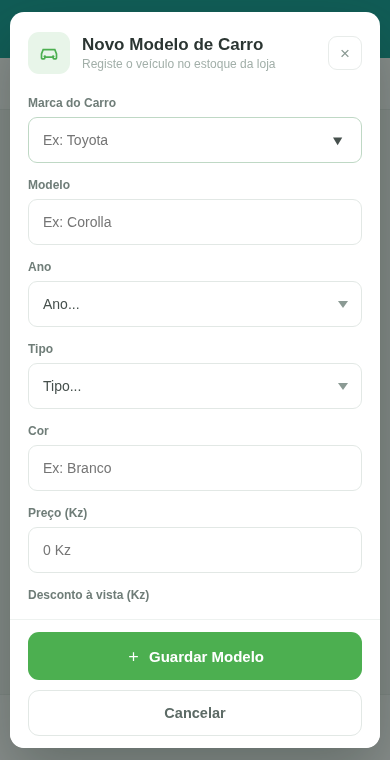
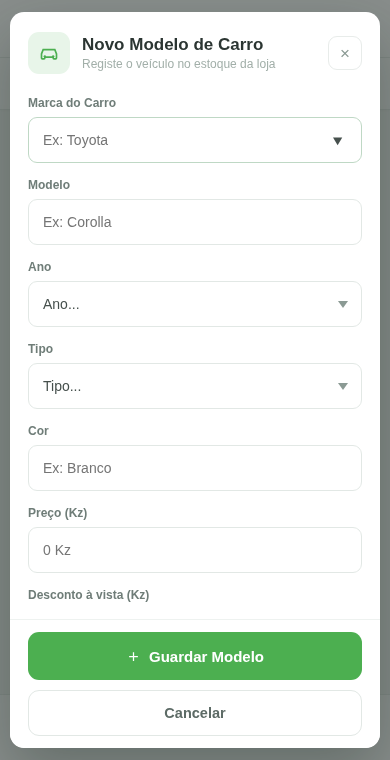
Appbar com fundo branco
- Marca (Modelo) passa de teal para branco, com logótipo em teal e texto escuro
- Divisória fina entre marca e appbar no desktop (250px / 76px no tablet)
- Sombra suave na appbar de conteúdo para separar do fundo
- Contraste do texto da marca: 12,67:1

Changed region(s): [[0.0, 0.0, 1.0, 0.0908]]

diff --git a/index.html b/index.html
@@ -47,20 +47,27 @@
       "side  content";
   }
 
-  /* ---------- marca ---------- */
+  /* ---------- marca (appbar branca) ---------- */
   .brand{
-    grid-area:brand;display:flex;align-items:center;gap:10px;padding:0 20px;
-    background:var(--teal);color:#fff;
+    position:relative;grid-area:brand;display:flex;align-items:center;gap:10px;padding:0 20px;
+    background:#fff;color:var(--ink);border-bottom:1px solid var(--line);
   }
   .brand .mark{
-    width:30px;height:30px;border-radius:8px;background:rgba(255,255,255,.18);
+    width:30px;height:30px;border-radius:8px;background:var(--teal);
     display:flex;align-items:center;justify-content:center;flex:0 0 auto;
+    box-shadow:0 2px 6px rgba(14,156,148,.28);
   }
-  .brand b{font-weight:600;letter-spacing:.3px;font-size:16.5px}
+  .brand .mark svg{stroke:#fff}
+  .brand b{font-weight:700;letter-spacing:.3px;font-size:16.5px;color:var(--ink)}
+  /* traço fino a separar a marca da appbar no desktop */
+  .brand::after{
+    content:"";position:absolute;left:250px;top:14px;bottom:14px;width:1px;background:var(--line);
+  }
 
   /* ---------- appbar ---------- */
   .bar{
     grid-area:bar;background:#fff;border-bottom:1px solid var(--line);
+    box-shadow:0 1px 2px rgba(20,40,30,.03);
     display:flex;align-items:center;gap:16px;padding:0 24px;min-width:0;
   }
   .bar .back{
@@ -453,6 +460,7 @@
   /* --- tablet / desktop estreito: barra lateral em ícones --- */
   @media (max-width:1080px) and (min-width:901px){
     .app{grid-template-columns:76px 1fr}
+    .brand::after{left:76px}
     .side .lbl,.nav span.tx,.side .cnt,.side .store .n,.side .store .s{display:none}
     .nav{justify-content:center}
     .detail,.quote{grid-template-columns:1fr}
@@ -470,6 +478,7 @@
         "navbar";
     }
     .brand{padding:0 16px;gap:11px}
+    .brand::after{display:none}
     .brand .mark{width:28px;height:28px}
     .brand b{font-size:15.5px}
 
